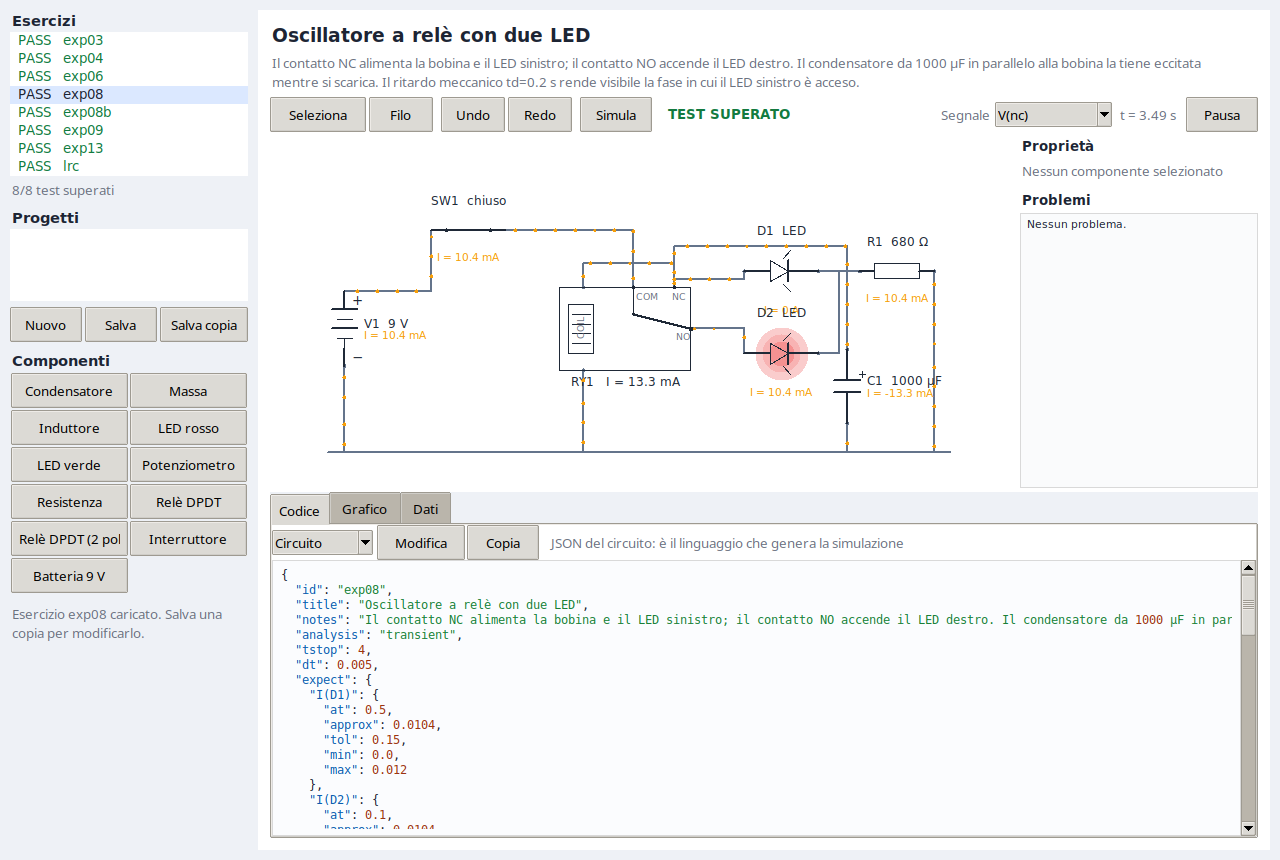
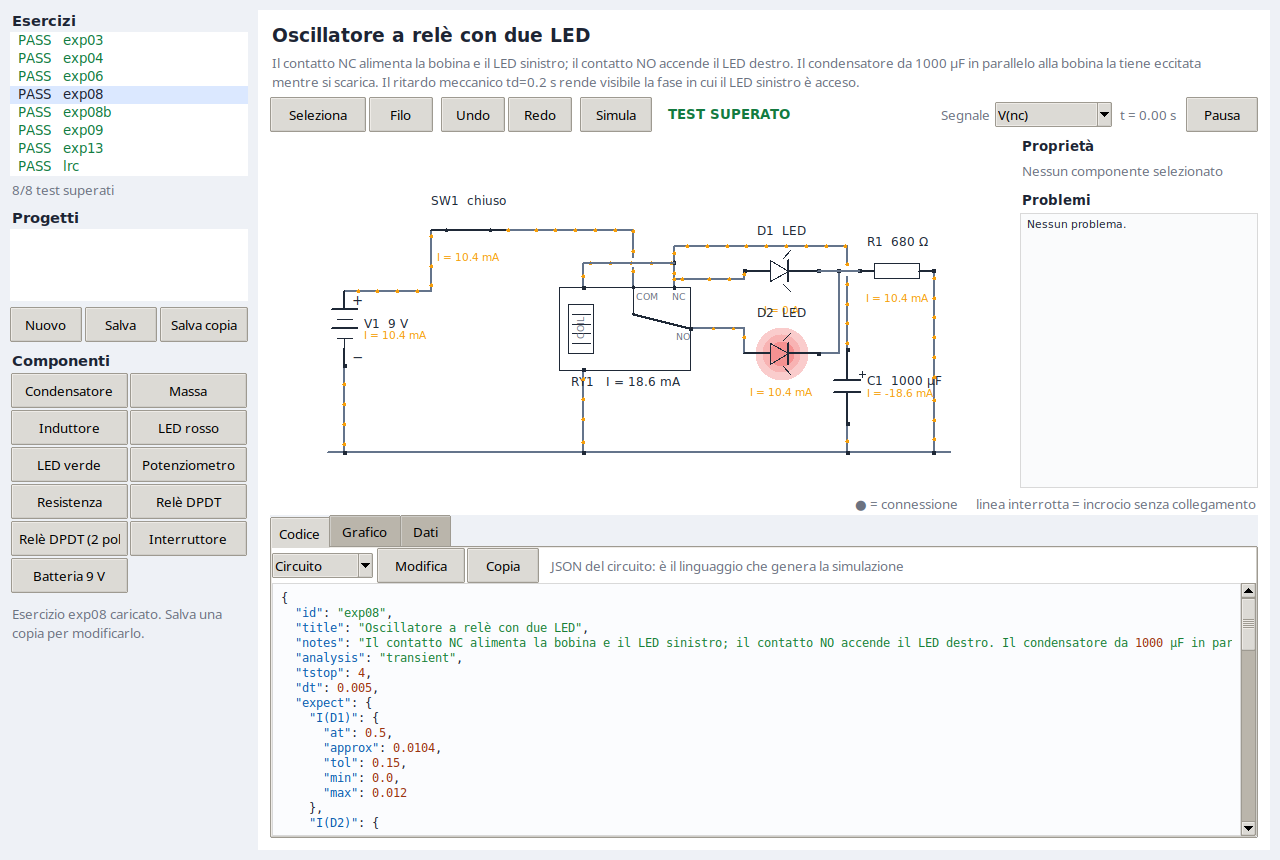
Make wire crossings and junctions explicit

diff --git a/clab/schematic.py b/clab/schematic.py
@@ -25,6 +25,7 @@ class Path:
     def __init__(self, poly, key, pid, pin):
         self.poly = [(float(x), float(y)) for x, y in poly]
         self.key = key
+        self.net = key.split("|")[0]
         self.pid = pid
         self.pin = pin
         self.cum = [0.0]
@@ -58,9 +59,12 @@ class Schematic:
         self.rail = None
         self.buses = []
         self.junctions = []
+        self.cross = {}
+        self.gaps = []
         self.phase = {}
         if self.layout and self.layout.get("parts"):
             self._build_routes()
+            self._compute_crossings()
 
     def virtual(self, x, y):
         if self.s <= 0:
@@ -196,11 +200,103 @@ class Schematic:
             out.extend((X, Y))
         return out
 
-    def line(self, pts, color=INK, width=2.0, dash=None):
-        args = dict(fill=color, width=max(1.1, width * self.s), capstyle="round")
+    def line(self, pts, color=INK, width=2.0, dash=None, capstyle="round"):
+        args = dict(fill=color, width=max(1.1, width * self.s), capstyle=capstyle)
         if dash:
             args["dash"] = dash
         return self.c.create_line(*self.flat(pts), **args)
+
+    @staticmethod
+    def _orient(a, b):
+        if abs(a[1] - b[1]) < 1e-9:
+            return "H"
+        if abs(a[0] - b[0]) < 1e-9:
+            return "V"
+        return None
+
+    @staticmethod
+    def _interior(p, a, b):
+        if abs(a[1] - b[1]) < 1e-9:
+            return (abs(p[1] - a[1]) < 1e-9 and
+                    min(a[0], b[0]) < p[0] < max(a[0], b[0]))
+        if abs(a[0] - b[0]) < 1e-9:
+            return (abs(p[0] - a[0]) < 1e-9 and
+                    min(a[1], b[1]) < p[1] < max(a[1], b[1]))
+        return False
+
+    @staticmethod
+    def _cross_hv(h1, h2, v1, v2):
+        hy = h1[1]
+        vx = v1[0]
+        if (min(h1[0], h2[0]) < vx < max(h1[0], h2[0]) and
+                min(v1[1], v2[1]) < hy < max(v1[1], v2[1])):
+            return (vx, hy)
+        return None
+
+    def _compute_crossings(self):
+        segs = []
+        if self.rail:
+            x0, x1, y = self.rail
+            segs.append((self.doc.ground or "gnd", (x0, y), (x1, y), None, 0))
+        for name, x0, x1, y in self.buses:
+            segs.append((name, (x0, y), (x1, y), None, 0))
+        for p in self.paths:
+            for i, (a, b) in enumerate(zip(p.poly, p.poly[1:])):
+                segs.append((p.net, a, b, p, i))
+        dots = {tuple(j) for j in self.junctions}
+        self.cross = {}
+        self.gaps = []
+        for i in range(len(segs)):
+            n1, a1, b1, p1, i1 = segs[i]
+            o1 = self._orient(a1, b1)
+            if o1 is None:
+                continue
+            for j in range(i + 1, len(segs)):
+                n2, a2, b2, p2, i2 = segs[j]
+                o2 = self._orient(a2, b2)
+                if o2 is None:
+                    continue
+                if o1 != o2:
+                    h1, h2 = (a1, b1) if o1 == "H" else (a2, b2)
+                    v1, v2 = (a1, b1) if o1 == "V" else (a2, b2)
+                    pt = self._cross_hv(h1, h2, v1, v2)
+                    if pt:
+                        if n1 == n2:
+                            dots.add(pt)
+                        else:
+                            vp = p1 if o1 == "V" else p2
+                            vi = i1 if o1 == "V" else i2
+                            if vp is not None:
+                                self.cross.setdefault((vp.key, vi), []).append(pt)
+                                self.gaps.append((pt, h1, h2))
+                if n1 == n2:
+                    for p in (a1, b1):
+                        if self._interior(p, a2, b2):
+                            dots.add(p)
+                    for p in (a2, b2):
+                        if self._interior(p, a1, b1):
+                            dots.add(p)
+        self.junctions = sorted(dots)
+
+    def _draw_path(self, path):
+        for i, (a, b) in enumerate(zip(path.poly, path.poly[1:])):
+            splits = self.cross.get((path.key, i), [])
+            if not splits or abs(a[0] - b[0]) > 1e-9:
+                self.line([a, b], color=WIRE, width=1.9)
+                continue
+            x = a[0]
+            y0, y1 = sorted((a[1], b[1]))
+            cur = y0
+            for _, cy in sorted(splits, key=lambda p: p[1]):
+                top = max(y0, cy - 6)
+                bot = min(y1, cy + 6)
+                if top > cur:
+                    self.line([(x, cur), (x, top)], color=WIRE, width=1.9,
+                              capstyle="butt")
+                cur = max(cur, bot)
+            if cur < y1:
+                self.line([(x, cur), (x, y1)], color=WIRE, width=1.9,
+                          capstyle="butt")
 
     def text(self, x, y, txt, anchor="center", color=MUTED, size=9):
         return self.c.create_text(*self.T(x, y), text=txt, anchor=anchor,
@@ -258,11 +354,11 @@ class Schematic:
         for x0, x1, y in self.buses:
             self.line([(x0, y), (x1, y)], color=WIRE, width=2.0)
         for path in self.paths:
-            self.line(path.poly, color=WIRE, width=1.9)
+            self._draw_path(path)
         for x, y in self.junctions:
             X, Y = self.T(x, y)
-            r = 2.6 * self.s
-            c.create_oval(X - r, Y - r, X + r, Y + r, fill=WIRE, outline="")
+            r = 3.0 * self.s
+            c.create_oval(X - r, Y - r, X + r, Y + r, fill=INK, outline="")
 
         for pid in self.layout["parts"]:
             if pid in self.doc.parts:
@@ -270,6 +366,12 @@ class Schematic:
 
         for path in self.paths:
             self._dots(path, t, dreal, playing)
+        for (x, y), h1, h2 in self.gaps:
+            a = self.T(x, y - 6)
+            b = self.T(x, y + 6)
+            c.create_line(a[0], a[1], b[0], b[1], fill=BG,
+                          width=max(2.8, 3.4 * self.s))
+            self.line([h1, h2], color=WIRE, width=1.9)
 
     def _label(self, pid):
         p = self.doc.part(pid)

diff --git a/clab/gui.py b/clab/gui.py
@@ -196,6 +196,8 @@ class App:
         self.scv.bind("<B1-Motion>", self._on_motion)
         self.scv.bind("<ButtonRelease-1>", self._on_release)
         self.scv.bind("<Motion>", self._on_hover)
+        ttk.Label(main, text="\u25cf = connessione      linea interrotta = incrocio senza collegamento",
+                  style="Muted.TLabel").pack(anchor="e")
 
         self.nb = ttk.Notebook(main)
         self.nb.pack(fill="both", expand=True)

diff --git a/docs/GUI.md b/docs/GUI.md
@@ -117,6 +117,16 @@ secondi. Ogni componente ha una corrente interpolata all'istante corrente:
   piccole restano visibili; un LED bruciato mostra una X;
 - il cursore sul grafico segue l'animazione; `Pausa` ferma tutto.
 
+## Convenzioni di disegno
+
+- un **pallino scuro** su un nodo indica una connessione;
+- quando due fili di reti diverse si incrociano, il filo verticale viene
+  **interrotto**: non c'e' collegamento;
+- un incrocio tra fili della **stessa rete** ha il pallino, perche' e' una
+  connessione.
+
+La stessa legenda compare sotto lo schema.
+
 ## Simboli
 
 | Tipo | Simbolo |

diff --git a/README.md b/README.md
@@ -91,6 +91,8 @@ grafico e dati sotto.
   eliminarlo o vedere i pin e la rete
 - **Codice**: la scheda mostra il JSON del circuito o del layout, con copia,
   modifica e "Applica"; è lo stesso linguaggio usato dagli LLM
+- nel disegno, un pallino scuro è una connessione; un filo interrotto è un
+  incrocio senza collegamento
 - **progetti**: "Nuovo", "Salva", "Salva copia"; gli esercizi integrati restano
   protetti, i progetti finiscono in `data/projects/`
 
